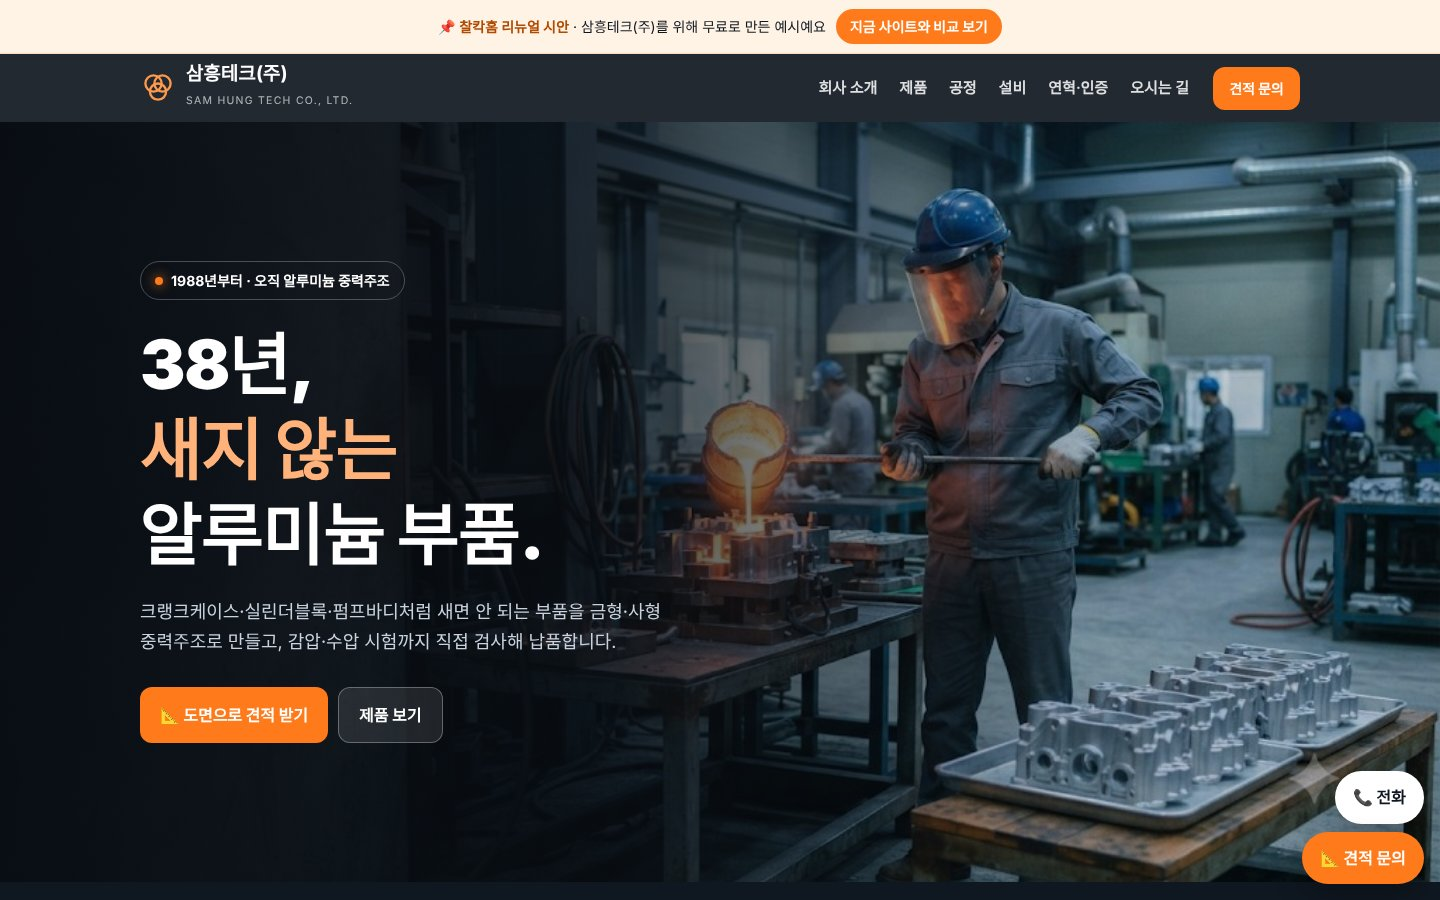
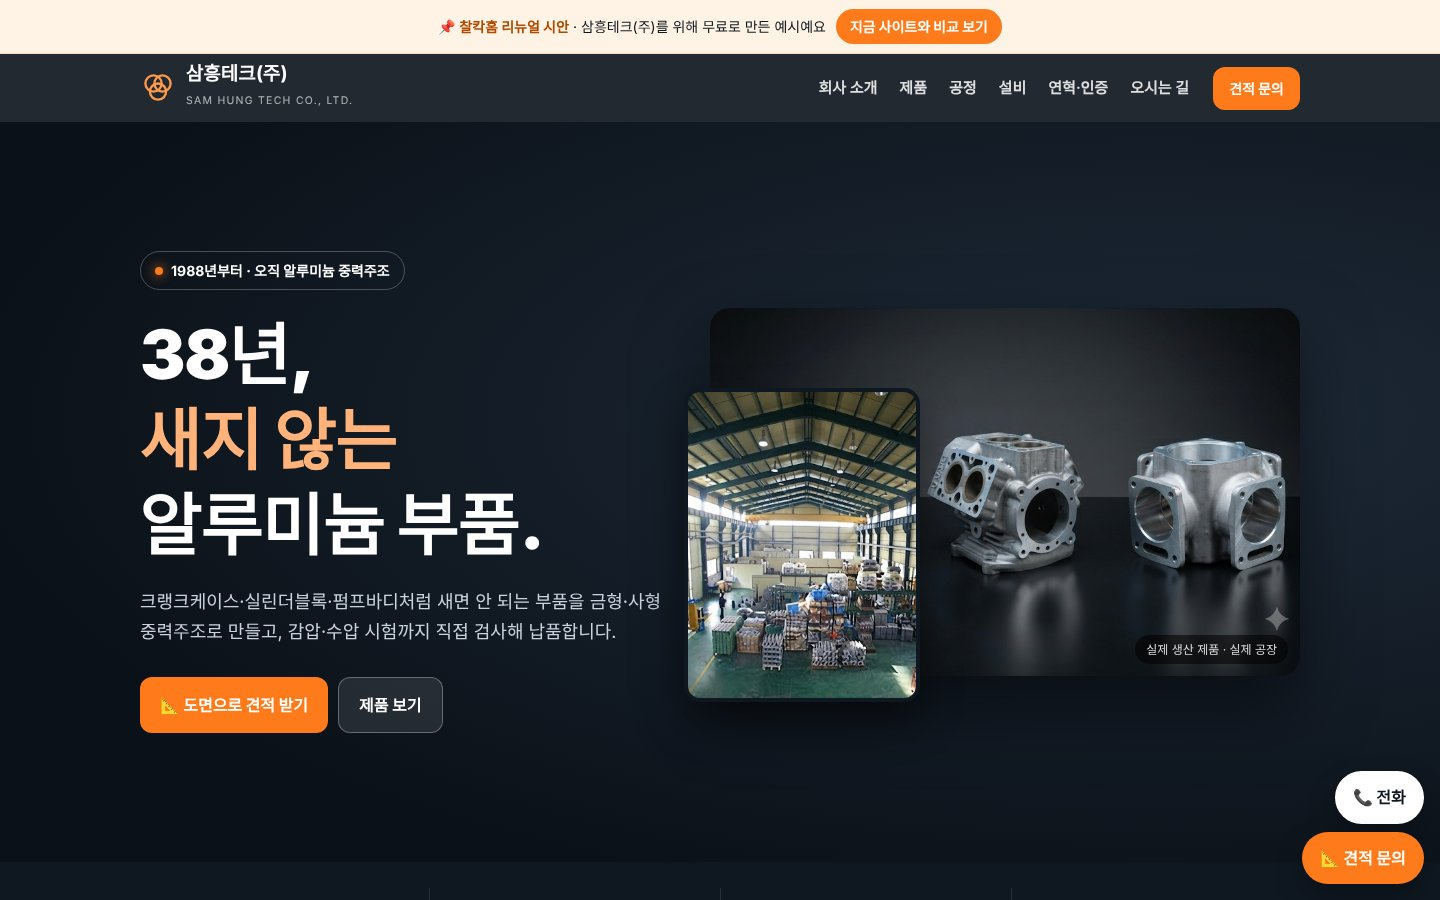
samhung: site with restored real photos + compare image
Claude-Session: https://claude.ai/code/session_01D8ERGz5r4FPkuXoKDYhqRw

diff --git a/_stage/samhung/site/index.html b/_stage/samhung/site/index.html
@@ -30,14 +30,14 @@ nav{margin-left:auto;display:flex;gap:22px;font-size:15px;font-weight:600}nav a{
 header .btn{padding:10px 16px;font-size:14px}
 @media(max-width:900px){nav{display:none}header .btn{margin-left:auto}}
 
-.hero{position:relative;color:#fff;background:#0B1118 url(img/hero.jpg) 65% center/cover;min-height:min(88vh,760px);display:flex;align-items:center}
-.hero:before{content:"";position:absolute;inset:0;background:linear-gradient(90deg,rgba(8,12,18,.94) 0%,rgba(8,12,18,.75) 42%,rgba(8,12,18,.15) 75%)}
+.hero{position:relative;color:#fff;background:radial-gradient(1200px 500px at 80% 40%,#1E2A38,#0B1118);min-height:min(86vh,740px);display:flex;align-items:center;overflow:hidden}
+.hero .hg{display:grid;grid-template-columns:1fr 1.1fr;gap:34px;align-items:center}.hero .vis{position:relative}.hero .vis .a{border-radius:20px;overflow:hidden;box-shadow:0 30px 70px rgba(0,0,0,.5);aspect-ratio:16/10;background:#0B1118 url(img/prod1.jpg) center/cover}.hero .vis .b{position:absolute;left:-26px;bottom:-26px;width:40%;aspect-ratio:3/4;border-radius:16px;border:4px solid #0F1720;background:#222 url(img/up_plant1.jpg) center/cover;box-shadow:0 20px 40px rgba(0,0,0,.45)}.hero .vis small{position:absolute;right:12px;bottom:12px;background:rgba(0,0,0,.55);border-radius:99px;padding:5px 11px;font-size:12px;color:#ddd}
 .hero .w{position:relative;width:100%;padding-block:80px}
 .hero .ey{display:inline-flex;gap:8px;align-items:center;border:1px solid rgba(255,255,255,.25);border-radius:99px;padding:7px 14px;font-size:14px;font-weight:700;margin-bottom:22px}.hero .ey i{width:8px;height:8px;border-radius:50%;background:var(--or);box-shadow:0 0 12px var(--or)}
 .hero h1{font-size:clamp(38px,5.4vw,68px);font-weight:900;max-width:12em}.hero h1 em{font-style:normal;color:var(--or2)}
 .hero p{font-size:18px;color:#C9D3DE;max-width:31em;margin:20px 0 30px}
 .hero .row{display:flex;gap:10px;flex-wrap:wrap}
-@media(max-width:760px){.hero{background-position:72% center}.hero:before{background:linear-gradient(0deg,rgba(8,12,18,.95) 35%,rgba(8,12,18,.35))}.hero{align-items:flex-end;min-height:680px}}
+@media(max-width:900px){.hero .hg{grid-template-columns:1fr}.hero .vis{margin:10px 0 30px 20px}.hero .w{padding-block:50px}}
 
 .kpi{background:var(--ink);color:#fff}.kpi .w{display:grid;grid-template-columns:repeat(4,1fr)}
 .kpi div{padding:26px 18px;border-left:1px solid rgba(255,255,255,.1)}.kpi div:first-child{border-left:0}
@@ -47,7 +47,7 @@ header .btn{padding:10px 16px;font-size:14px}
 /* 강점 */
 .why{display:grid;grid-template-columns:1.15fr 1fr;gap:28px;align-items:stretch}
 .why .ph{border-radius:22px;overflow:hidden;min-height:420px;background:#111 center/cover}
-.ph2{display:grid;gap:12px;grid-template-rows:1fr 1fr}.ph2 .ph{min-height:200px}
+.ph2{display:grid;gap:12px;grid-template-columns:1fr 1fr}.ph2 .ph{min-height:200px}
 .wl{display:grid;gap:14px}.wl div{border:1px solid var(--ln);border-radius:18px;padding:22px 22px 20px;background:#fff}
 .wl b{display:flex;gap:10px;align-items:center;font-size:19px}.wl b i{font-style:normal;width:34px;height:34px;border-radius:10px;background:#FFF1E6;display:grid;place-items:center;font-size:17px}
 .wl p{margin:8px 0 0;color:var(--mu)}
@@ -100,7 +100,7 @@ header .btn{padding:10px 16px;font-size:14px}
 @media(max-width:760px){.cta{grid-template-columns:1fr;padding:28px}.cta .row{justify-content:flex-start}}
 
 .loc{display:grid;grid-template-columns:1fr 1fr;gap:20px;align-items:stretch}
-.map{border-radius:20px;background:#E9EEF3 url(img/plant1.jpg) center/cover;min-height:300px;position:relative;overflow:hidden}.map a{position:absolute;left:16px;bottom:16px}
+.map{border-radius:20px;background:#E9EEF3 url(img/up_plant2.jpg) center/cover;min-height:300px;position:relative;overflow:hidden}.map a{position:absolute;left:16px;bottom:16px}
 .lt{border:1px solid var(--ln);border-radius:20px;padding:8px 22px}.lt div{display:flex;gap:16px;padding:14px 0;border-bottom:1px solid var(--ln)}.lt div:last-child{border:0}.lt span{width:80px;flex:none;color:var(--mu);font-size:14.5px}.lt b{font-weight:700}
 @media(max-width:760px){.loc{grid-template-columns:1fr}}
 
@@ -148,11 +148,12 @@ footer{background:#0B1118;color:#8696A8;font-size:13.5px;padding:34px 0 90px}foo
  <button class="btn" data-open="q">견적 문의</button>
 </div></header>
 
-<div class="hero" id="top"><div class="w">
+<div class="hero" id="top"><div class="w"><div class="hg"><div>
  <span class="ey"><i></i>1988년부터 · 오직 알루미늄 중력주조</span>
  <h1>38년,<br><em>새지 않는</em><br>알루미늄 부품.</h1>
  <p>크랭크케이스·실린더블록·펌프바디처럼 새면 안 되는 부품을 금형·사형 중력주조로 만들고, 감압·수압 시험까지 직접 검사해 납품합니다.</p>
  <div class="row"><button class="btn" data-open="q">📐 도면으로 견적 받기</button><button class="btn g" data-open="prod">제품 보기</button></div>
+ </div><div class="vis"><div class="a"></div><div class="b"></div><small>실제 생산 제품 · 실제 공장</small></div></div>
 </div></div>
 
 <div class="kpi"><div class="w">
@@ -165,7 +166,7 @@ footer{background:#0B1118;color:#8696A8;font-size:13.5px;padding:34px 0 90px}foo
 <section id="why"><div class="w">
  <div class="sh"><span class="k">WHY SAM HUNG</span><h2>주조부터 검사까지, 한 공장에서</h2><p>용해부터 주조, 절단·사상, 쇼트, 기밀 시험까지 모든 공정을 팔용동 공장에서 직접 합니다. 그래서 품질도 일정도 저희가 책임집니다.</p></div>
  <div class="why">
-  <div class="ph2"><div class="ph" style="background-image:url(img/casting_mold.jpg)"></div><div class="ph" style="background-image:url(img/leak_test.jpg)"></div></div>
+  <div class="ph2"><div class="ph" style="background-image:url(img/up_casting.jpg)"></div><div class="ph" style="background-image:url(img/up_hydro.jpg)"></div></div>
   <div class="wl">
    <div><b><i>💧</i>새지 않게, 검사로 증명</b><p>압축기·펌프용 부품은 작은 기공에도 샙니다. 감압 TEST기와 수압 TEST기로 기밀을 직접 확인합니다.</p></div>
    <div><b><i>⚙</i>금형 · 사형 둘 다</b><p>수량이 많고 정밀하면 금형주조, 크거나 모양이 복잡하면 사형주조. 부품에 맞는 공법을 같이 골라 드립니다.</p></div>
@@ -189,7 +190,7 @@ footer{background:#0B1118;color:#8696A8;font-size:13.5px;padding:34px 0 90px}foo
 <section class="alt"><div class="w">
  <div class="sh"><span class="k">METHOD</span><h2>금형주조와 사형주조, 어떤 게 맞을까요?</h2></div>
  <div class="cmp">
-  <div class="cm2"><div class="im" style="background-image:url(img/casting_mold.jpg),url(img/prod1.jpg)"></div><div class="bd"><h3>금형(중력)주조</h3><ul><li>쇳물을 금속 금형에 중력으로 부어 굳힘</li><li>표면이 매끄럽고 치수가 일정</li><li>같은 부품을 반복 생산할 때 단가가 내려감</li></ul><div class="fit">👉 크랭크케이스 · 실린더블록 · 펌프바디처럼 정밀 · 양산 부품</div></div></div>
+  <div class="cm2"><div class="im" style="background-image:url(img/up_pouring.jpg);background-position:center 30%"></div><div class="bd"><h3>금형(중력)주조</h3><ul><li>쇳물을 금속 금형에 중력으로 부어 굳힘</li><li>표면이 매끄럽고 치수가 일정</li><li>같은 부품을 반복 생산할 때 단가가 내려감</li></ul><div class="fit">👉 크랭크케이스 · 실린더블록 · 펌프바디처럼 정밀 · 양산 부품</div></div></div>
   <div class="cm2"><div class="im" style="background-image:url(img/p_cover.jpg)"></div><div class="bd"><h3>사형주조</h3><ul><li>모래로 만든 틀에 쇳물을 부어 성형</li><li>큰 부품, 복잡한 모양도 가능</li><li>금형비 부담이 적어 소량 · 시제품에 유리</li></ul><div class="fit">👉 커버 · 대형 하우징 · 소량 · 개발 단계 부품</div></div></div>
  </div>
 </div></section>
@@ -243,7 +244,7 @@ footer{background:#0B1118;color:#8696A8;font-size:13.5px;padding:34px 0 90px}foo
  </div>
 </div></section>
 
-<footer><div class="w"><b>삼흥테크(주) SAM HUNG TECH CO., LTD.</b> · 대표 배성문 · 사업자등록번호 608-81-08635<br>경남 창원시 의창구 팔용동 41-18 · T 055-299-3851~2 · F 055-299-3853<br><span style="opacity:.7">이 페이지는 찰칵홈이 만든 리뉴얼 시안이에요 · 제품·공장 사진은 기존 홈페이지 자료를 바탕으로 다듬었어요</span></div></footer>
+<footer><div class="w"><b>삼흥테크(주) SAM HUNG TECH CO., LTD.</b> · 대표 배성문 · 사업자등록번호 608-81-08635<br>경남 창원시 의창구 팔용동 41-18 · T 055-299-3851~2 · F 055-299-3853<br><span style="opacity:.7">이 페이지는 찰칵홈이 만든 리뉴얼 시안이에요 · 제품·공장 사진은 기존 홈페이지의 실제 사진을 선명하게 복원했어요</span></div></footer>
 
 <div class="fab"><a class="c" href="tel:0552993851">📞 전화</a><button class="q" data-open="q">📐 견적 문의</button></div>
 
@@ -260,12 +261,12 @@ const P=[
 const S=[
  {n:'용해',d:'알루미늄 잉곳을 녹임',eq:'경동식 GAS로 350kg',img:'img/melting.jpg',t:'용해로'},
  {n:'가스 처리',d:'쇳물 속 수소 제거 → 기공 방지',eq:'GAS 처리장치 2대',img:'img/ingot.jpg',t:'잉곳 · 용탕 관리'},
- {n:'보온',d:'주조 온도를 일정하게',eq:'전기 보온로 8기',img:'img/holding_furnace.jpg',t:'보온로 AL 500kg'},
- {n:'주조',d:'금형·사형에 중력으로 주입',eq:'주조기 8대',img:'img/casting.jpg',t:'주조 작업'},
+ {n:'보온',d:'주조 온도를 일정하게',eq:'전기 보온로 8기',img:'img/up_holding.jpg',t:'보온로 AL 500kg'},
+ {n:'주조',d:'금형·사형에 중력으로 주입',eq:'주조기 8대',img:'img/up_casting.jpg',t:'주조 작업'},
  {n:'탈사 · 절단',d:'모래 제거, 탕구 절단',eq:'탈사기 3 · 절단기 5',img:'img/cutting.jpg',t:'절단 작업'},
  {n:'사상 · 쇼트',d:'표면 다듬기',eq:'SHOT기 2 · G.B.F 2',img:'img/shot.jpg',t:'SHOT기'},
- {n:'기밀 시험',d:'감압 · 수압으로 누설 검사',eq:'감압 · 수압 TEST기',img:'img/hydro_test.jpg',t:'수압 TEST기',q:1},
- {n:'출하',d:'검사 완료품 포장 · 납품',eq:'공장 내 적재 · 출하',img:'img/plant1.jpg',t:'공장 내부 전경'}];
+ {n:'기밀 시험',d:'감압 · 수압으로 누설 검사',eq:'감압 · 수압 TEST기',img:'img/up_hydro.jpg',t:'수압 TEST기',q:1},
+ {n:'출하',d:'검사 완료품 포장 · 납품',eq:'공장 내 적재 · 출하',img:'img/up_plant1.jpg',t:'공장 내부 전경'}];
 const EQ=[['보온로','전기로','500kg / 300kg / 250kg / 150kg','4 / 1 / 1 / 2'],['용해로','경동식 GAS로','350kg','1'],['GAS 처리장치','','','2'],['감압 TEST기','','','1'],['주조기','','','8'],['띠톱 절단기','','2HP','3'],['CUTTING M/C','','3HP / 1.5HP','1 / 1'],['탈사기','','','3'],['교반기','','','2'],['탁상선반','','DK-32','1'],['G.B.F기','','1200×900×300','2'],['MAGNETIC 드릴','','3HP','1'],['SHOT기','행거식','1200×1600×900','2'],['COMPRESSOR','','10HP','3'],['DRILL','','1.5HP','3'],['수압 TEST기','','1700×850×350','1'],['Ar 용접기','','','1']];
 const $=s=>document.querySelector(s),E=s=>String(s).replace(/[&<>"]/g,c=>({"&":"&amp;","<":"&lt;",">":"&gt;",'"':"&quot;"}[c]));
 $('#pg').innerHTML=P.map(p=>`<button class="pc" data-c="${p.c}" data-open="p:${p.id}"><div class="im" style="background-image:url(${p.img})"></div><div class="tx"><span><b>${p.n}</b><small>${p.e}</small></span><span class="tg">${p.m}</span></div></button>`).join('');
@@ -276,7 +277,7 @@ const M=$('#md'),C=$('#mc');let qd={};
 const V={
  prod:()=>`<h3>제품</h3><p class="sub">누르면 크게 볼 수 있어요</p><div class="pg" style="grid-template-columns:repeat(3,1fr)">${P.map(p=>`<button class="pc" data-open="p:${p.id}"><div class="im" style="background-image:url(${p.img})"></div><div class="tx"><span><b>${p.n}</b><small>${p.e}</small></span></div></button>`).join('')}</div>`,
  p:id=>{const p=P.find(x=>x.id===id);return `<h3>${p.n} <small style="font-size:15px;color:var(--mu)">${p.e}</small></h3><p class="sub"><span class="tg" style="background:#FFF1E6;color:#B24A00;border-radius:99px;padding:4px 10px;font-weight:800;font-size:13px">${p.m}</span></p><div class="pdv"><div class="im" style="background-image:url(${p.img})"></div><div><ul>${p.u.map(x=>`<li>${x}</li>`).join('')}</ul><p style="color:var(--mu);font-size:14px">비슷한 부품이 필요하시면 도면을 보내 주세요. 주조 가능 여부부터 답해 드려요.</p><button class="btn" data-open="q">📐 이 부품처럼 견적 받기</button></div></div>`},
- s:i=>{const s=S[i];return `<h3>0${+i+1} · ${s.n}</h3><p class="sub">${s.d}</p><div class="stv"><div><img src="${s.img}" alt="${s.t}"><div class="ref">실제 공장 사진 · ${s.t}</div></div><div><b>사용 설비</b><p>${s.eq}</p>${s.q?'<p style="background:#FFF8F2;border-radius:12px;padding:12px;color:#B24A00;font-weight:700">압축기 · 펌프 부품은 이 단계에서 누설 여부를 하나하나 확인한 뒤 출하합니다.</p>':''}<div style="display:flex;gap:8px;margin-top:14px">${+i>0?`<button class="btn d" data-open="s:${+i-1}">← 이전</button>`:''}${+i<S.length-1?`<button class="btn" data-open="s:${+i+1}">다음 단계 →</button>`:''}</div></div></div>`},
+ s:i=>{const s=S[i];return `<h3>0${+i+1} · ${s.n}</h3><p class="sub">${s.d}</p><div class="stv"><div><img src="${s.img}" alt="${s.t}"><div class="ref">실제 공장 사진 (선명하게 복원) · ${s.t}</div></div><div><b>사용 설비</b><p>${s.eq}</p>${s.q?'<p style="background:#FFF8F2;border-radius:12px;padding:12px;color:#B24A00;font-weight:700">압축기 · 펌프 부품은 이 단계에서 누설 여부를 하나하나 확인한 뒤 출하합니다.</p>':''}<div style="display:flex;gap:8px;margin-top:14px">${+i>0?`<button class="btn d" data-open="s:${+i-1}">← 이전</button>`:''}${+i<S.length-1?`<button class="btn" data-open="s:${+i+1}">다음 단계 →</button>`:''}</div></div></div>`},
  eqall:()=>`<h3>전체 설비 목록</h3><p class="sub">2026년 기존 홈페이지 기준</p><table class="eqt"><tr><th>설비</th><th>특성</th><th>용량</th><th>대수</th></tr>${EQ.map(r=>`<tr>${r.map(c=>`<td>${c||'-'}</td>`).join('')}</tr>`).join('')}</table>`,
  ba:()=>`<h3>지금 홈페이지 vs 새 홈페이지</h3><p class="sub">거래처가 처음 검색해서 들어왔을 때 보는 화면이에요.</p><div class="ba"><figure><img src="img/before.jpg" alt="지금 홈페이지"><figcaption>지금 홈페이지</figcaption><ul class="bad"><li>주소창에 <b>"주의 요함"</b> 보안 경고</li><li>휴대폰에서 글씨가 작고 화면이 잘림</li><li>글자가 그림이라 <b>검색에 거의 안 잡힘</b></li><li>"25년 노하우" → 실제로는 38년</li></ul></figure><figure><img src="img/after.jpg" alt="새 홈페이지 시안"><figcaption>새 홈페이지 (이 시안)</figcaption><ul class="good"><li>휴대폰 · PC 모두 깔끔하게</li><li>제품을 카탈로그처럼 고급스럽게</li><li>공정 8단계 · 기밀 시험으로 신뢰</li><li>도면 첨부 견적이 바로 들어옴</li></ul></figure></div>
  <div class="offer"><b>이대로 쓰시려면</b><ul><li>회사 도메인 연결 + 보안(https) + 네이버 · 구글 검색 등록</li><li>제품 · 공장 사진 최신화 (찍어 주시면 다듬어 드려요)</li><li>원하시면 영문 페이지 (해외 거래처용)</li></ul><p style="margin:8px 0 0;font-size:13.5px;color:var(--mu)">찰칵홈 · 문의는 소개해 주신 분께 편하게 말씀해 주세요.</p></div>`,
